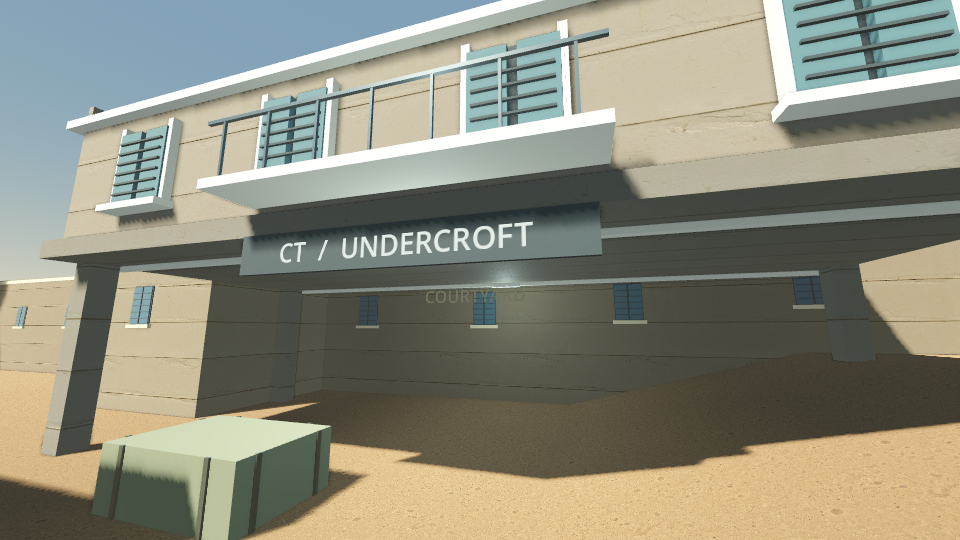
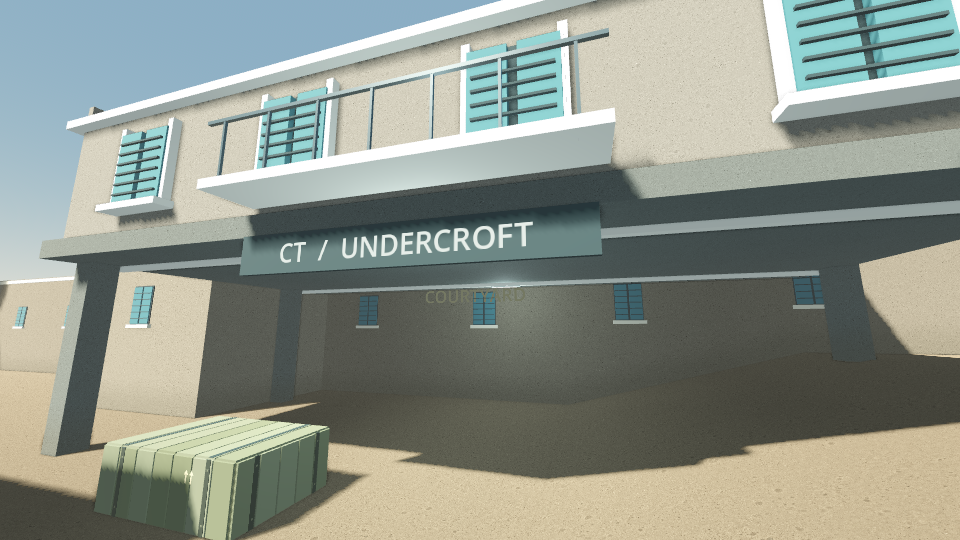
Show the current courtyard graphics and expose the small CPU benchmark

diff --git a/README.md b/README.md
@@ -8,9 +8,9 @@ Dust2-inspired desert map, 5v5 bot matches, animated operators, four weapons,
 economy and bomb defusal. Browser and native desktop builds share the game.
 Independent of Valve; not an exact map reproduction or finished competitive game.
 
-![Courtyard running in the browser](courtyard/docs/browser-preview.png)
+![Courtyard 0.4.16 — staged browser view of the CT undercroft](courtyard/docs/ct-undercroft.png)
 
-Actual browser capture, not concept art. Courtyard currently needs a keyboard
+Actual staged browser capture, not concept art. Courtyard currently needs a keyboard
 and mouse; graphics, AI and browser performance are still experimental.
 [Native play and controls](courtyard/README.md) ·
 [Operator animation study](courtyard/docs/grounded-motion.webm) (offline render, not gameplay FPS).
@@ -47,6 +47,7 @@ shipped to players. See [Bevy instructions](bevy/README.md) for the older app.
 npm test                                  # full Courtyard headless suite
 npm run test:workspace                     # no engine installation needed
 npm run test:courtyard -- pose_reset       # one relevant suite
+npm run test:courtyard -- function_benchmark # small CPU benchmark; no rendering
 npm run test:courtyard -- --list            # discover suites without running them
 npm run test:classic                       # fast JavaScript prototype checks
 ```
